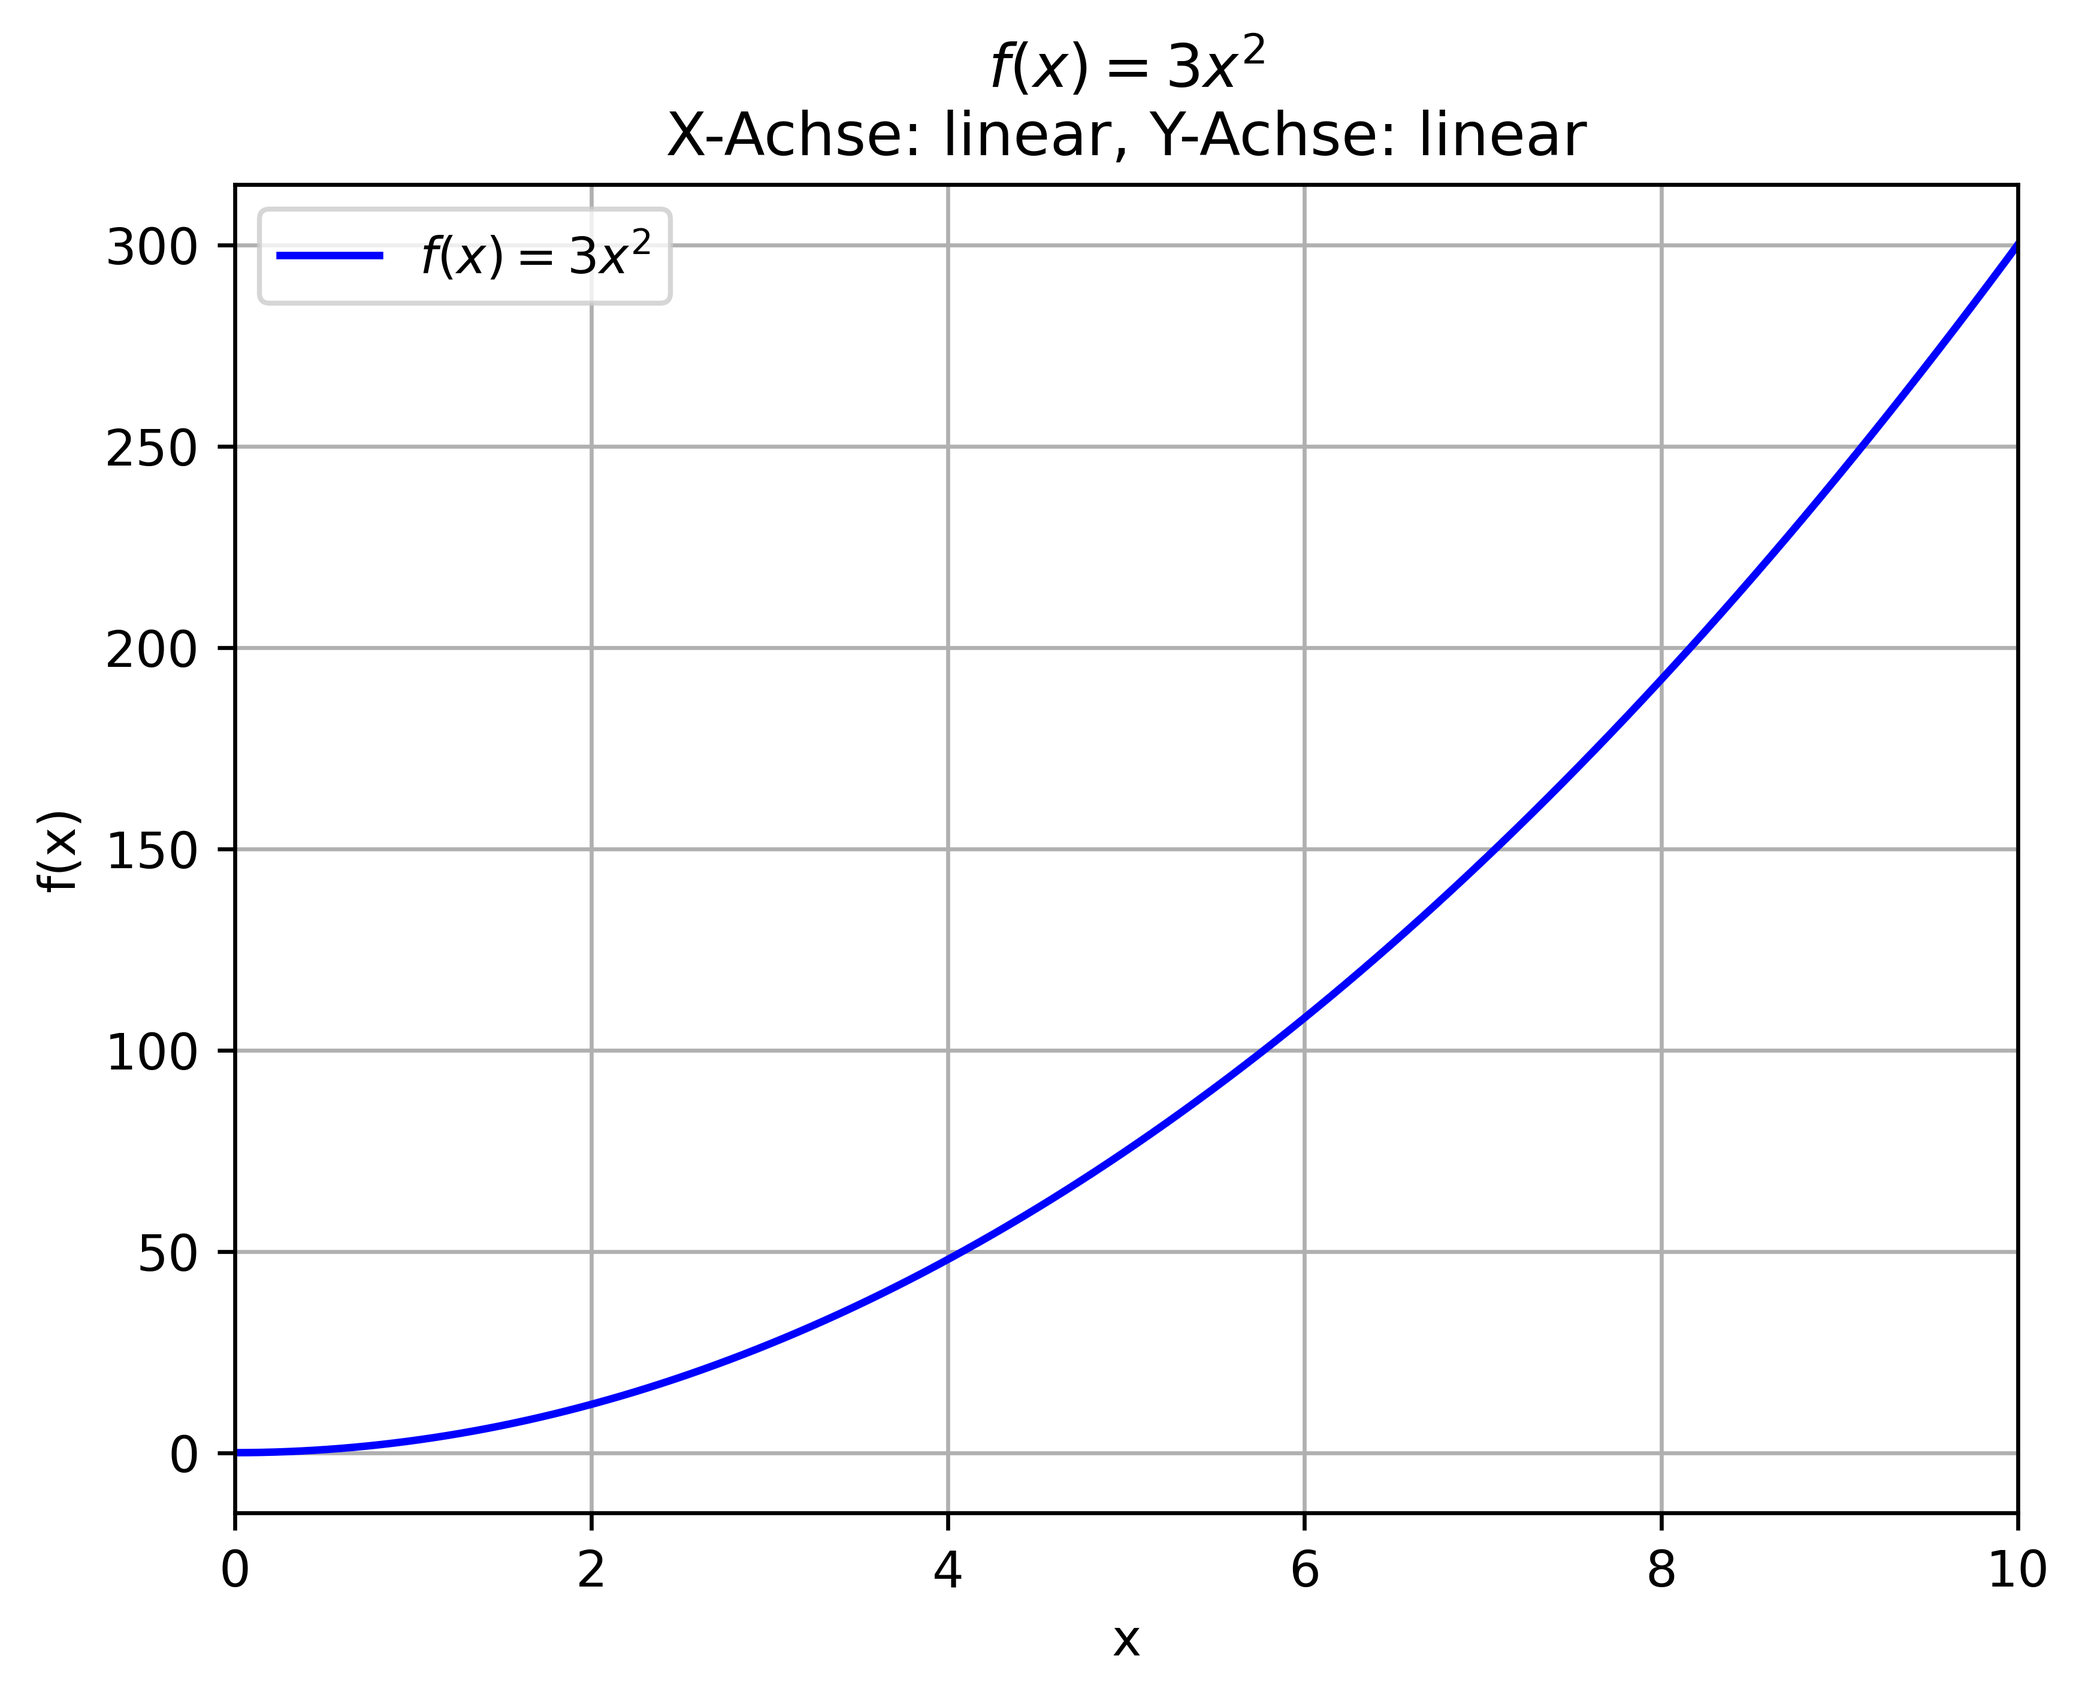
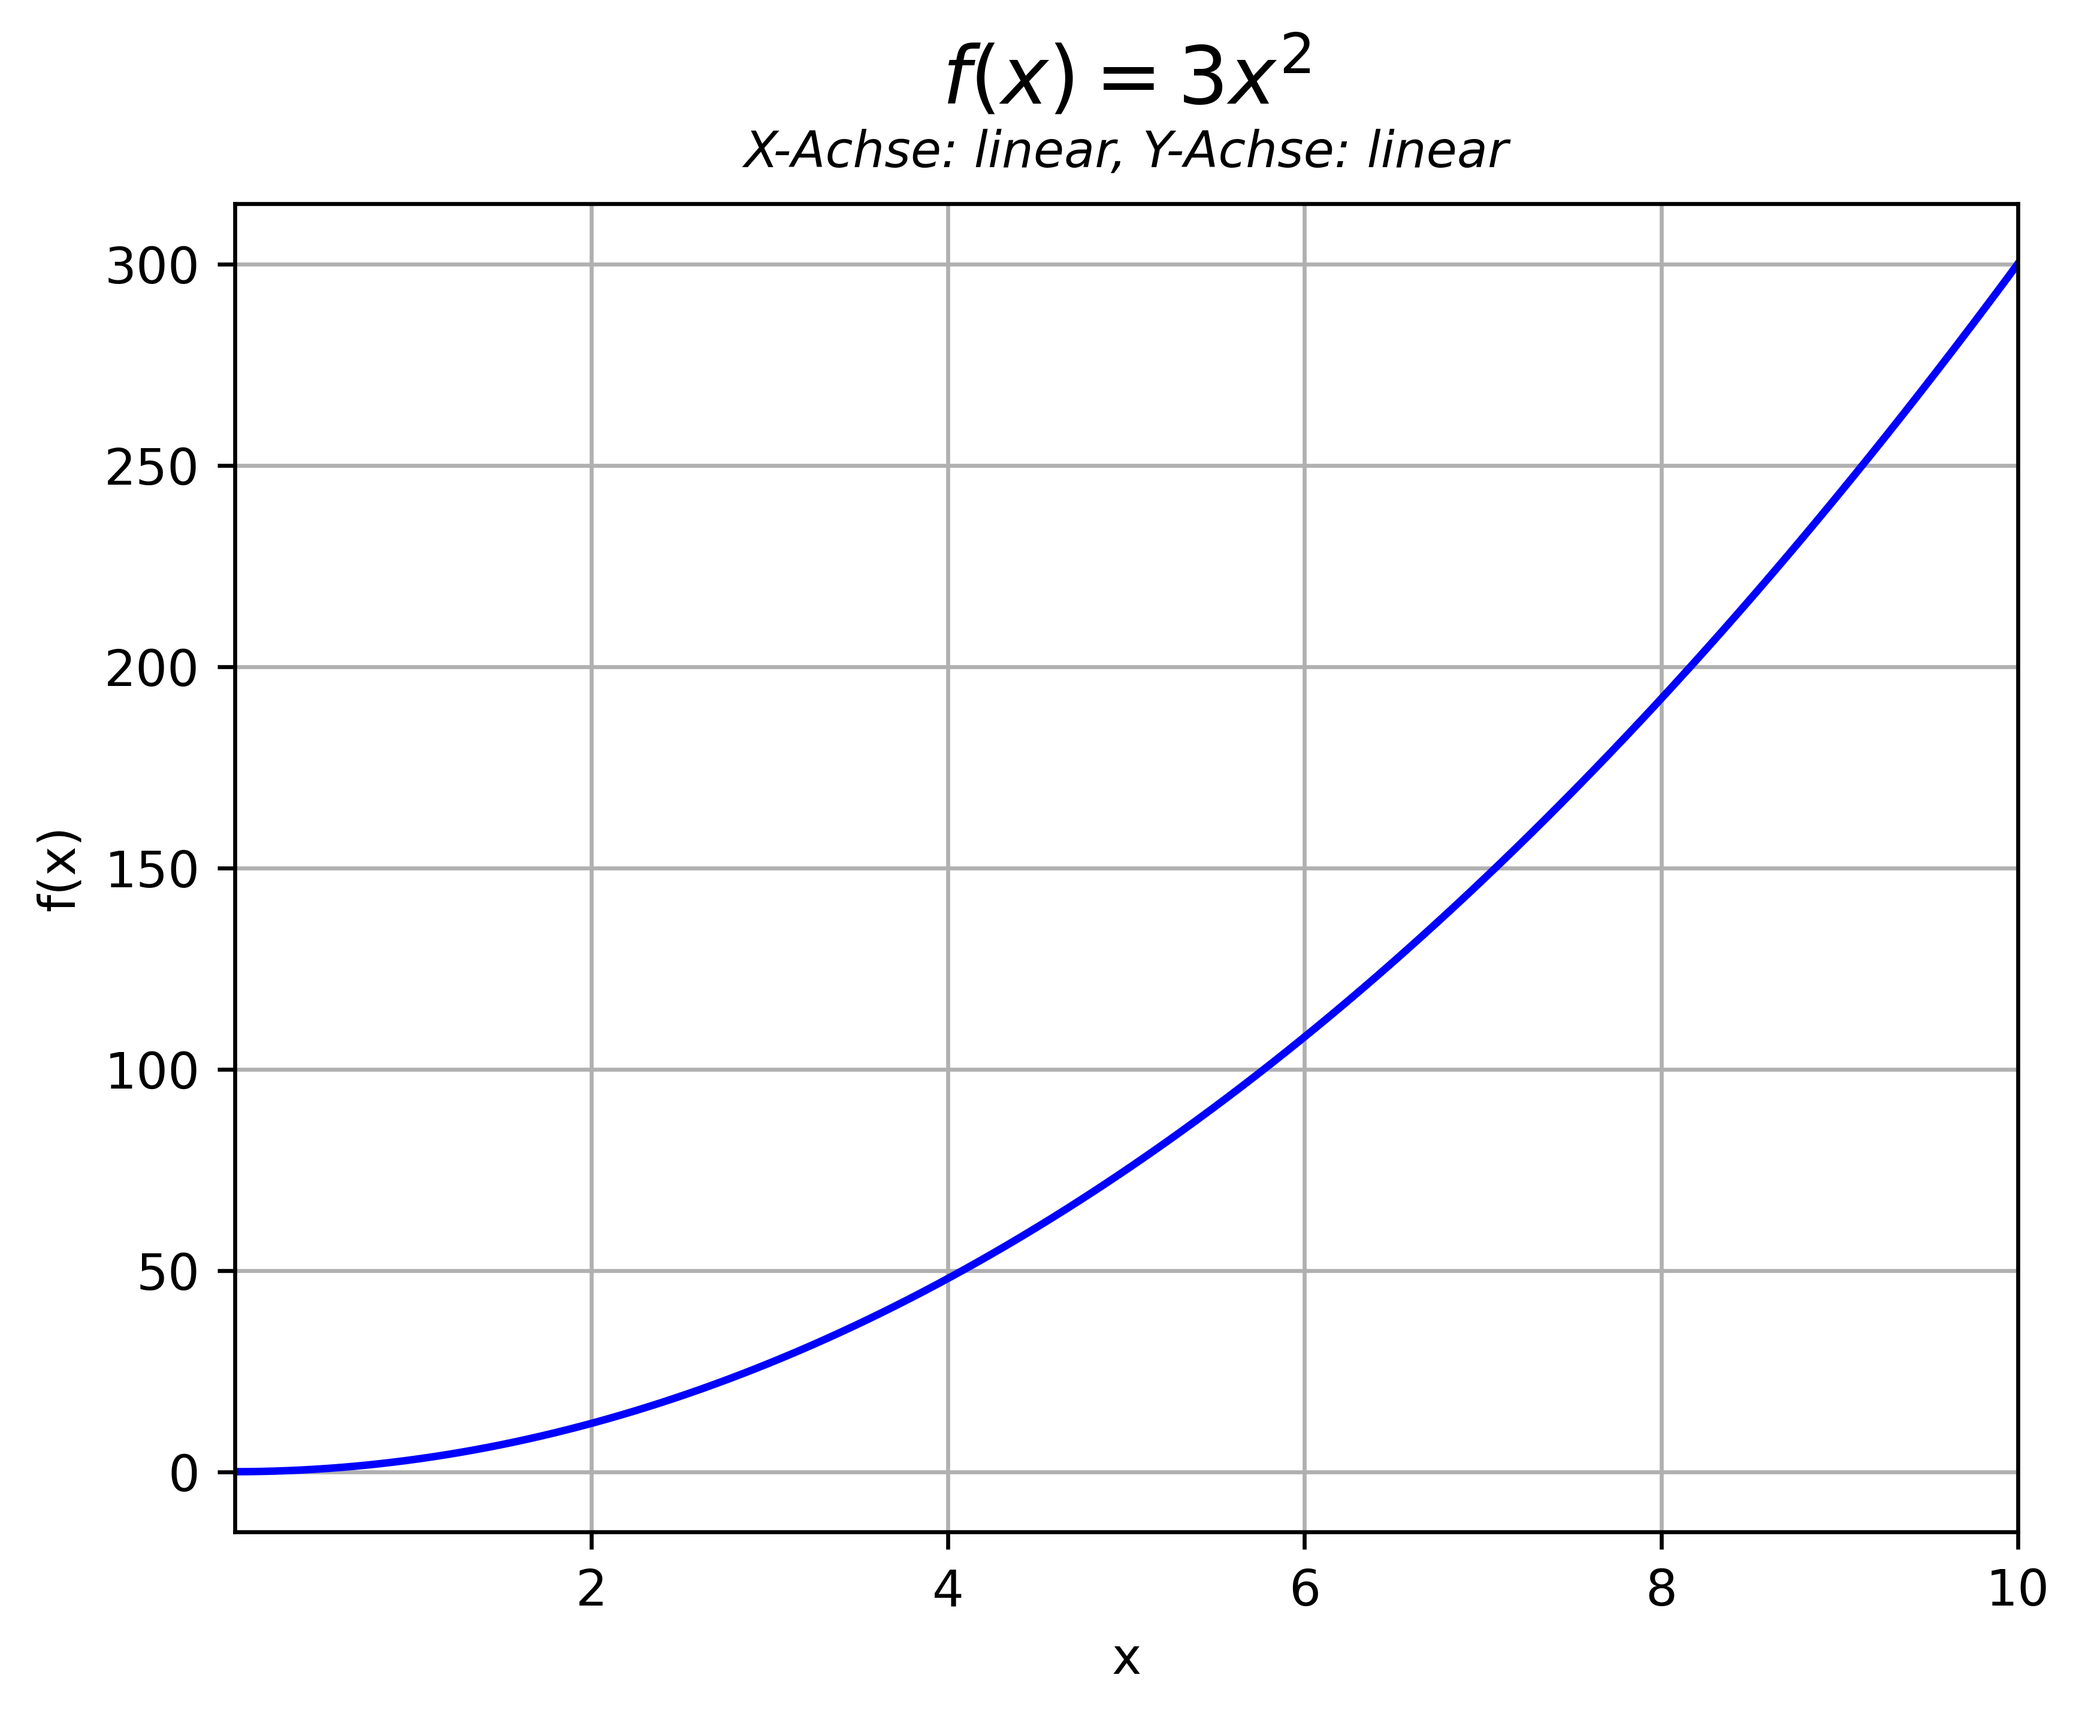
Aufgabe 2 Struktur geändert

diff --git a/Aufgabe2.py b/Aufgabe2.py
@@ -8,102 +8,82 @@ def f(x):
 
 #Funktion für linear linear
 def Aufgabe2_linear_linear():
-    #Definiert den Wertebereich der Funktion
-    x = np.linspace(0, 10, 30000) 
-    #Aufruf der zuvor definierten Funktion, also unsere Funktion aus der Aufgabenstellung. Abbildung mit der entsprechenden Funktion auf y
+    # Definiert den Wertebereich der Funktion
+    x = np.linspace(1e-9, 10, 30000)
     y = f(x)
-    #Öffnet einen neuen Graphen
-    plt.figure()
-    #Zeichnet den Graphen in Abhängikeit mit den zuvor definierten x und y. Das Label wir anschliessend unten in der Legende angezeigt. Das r ist da, um die Formel in LaTeX-Syntax einzugeben
-    plt.plot(x, y, color="blue",label=r"$f(x) = 3x^2$")
-    #Eingabe des Titels, erneut in LaTex-Syntax
-    plt.title(r"$f(x) = 3x^2$" "\nX-Achse: linear, Y-Achse: linear")
-    #X-Achsenbeschriftung
-    plt.xlabel("x")
-    #Y-Achsenbeschriftung
-    plt.ylabel("f(x)")
-    #Anzeige des XY-Gitters
-    plt.grid(True)
-    #Zeigt die in den "label" definierten Texte in der Legende an
-    plt.legend()
-    #Zeigt nur den ausgewählten Bereich an
-    plt.xlim(0, 10)
-    #Bild für den Bericht speichern
-    plt.savefig(r"Bilder\aufgabe2_linear_linear.png", dpi=600, bbox_inches="tight")
+    # Figure + Achse
+    fig, ax = plt.subplots()
+    # Graph zeichnen
+    ax.plot(x, y, color="blue", label=r"$f(x) = 3x^2$")
+    # 1. Zeile: Formel, größere Schrift
+    ax.set_title(r"$f(x) = 3x^2$", fontsize=16, pad=20)
+    # 2. Zeile: kleinere Schrift, direkt unter der ersten
+    ax.text(
+        0.5, 1.02,
+        "X-Achse: linear, Y-Achse: linear",
+        transform=ax.transAxes,
+        ha="center",
+        va="bottom",
+        fontsize=10,
+        style="italic"
+    )
+    # Achsenbeschriftungen
+    ax.set_xlabel("x")
+    ax.set_ylabel("f(x)")
+    # Gitterlinien für Plot
+    ax.grid(True, which="major")
+    ax.grid(True, which="minor",linewidth=0.5)
+    # Bereich einschränken (untere Grenze > 0 wegen log-Skala!)
+    ax.set_xlim(1e-9, 10)
+    fig.savefig(r"Bilder\aufgabe2_linear_linear.png", dpi=600, bbox_inches="tight")
 
 #Funktion für logarithmisch linear
 def Aufgabe2_log_linear():
-    #Definiert den Wertebereich der Funktion
-    x = np.linspace(0.000001, 10, 30000) 
-    #Aufruf der zuvor definierten Funktion, also unsere Funktion aus der Aufgabenstellung. Abbildung mit der entsprechenden Funktion auf y
-    y = f(x)
-    #Öffnet einen neuen Graphen
-    plt.figure()
-    #Zeichnet den Graphen in Abhängikeit mit den zuvor definierten x und y. Das Label wir anschliessend unten in der Legende angezeigt. Das r ist da, um die Formel in LaTeX-Syntax einzugeben
-    plt.plot(x, y, color="blue",label=r"$f(x) = 3x^2$")
-    #Einstellen der logarithmischen Skala
-    plt.xscale("log")
-    #Eingabe des Titels, erneut in LaTex-Syntax
-    plt.title(r"$f(x) = 3x^2$" "\nX-Achse: logarithmisch, Y-Achse: linear")
-    #X-Achsenbeschriftung
-    plt.xlabel("x")
-    #Y-Achsenbeschriftung
-    plt.ylabel("f(x)")
-    #Anzeige des XY-Gitters
-    plt.grid(True)
-    #Zeigt die in den "label" definierten Texte in der Legende an
-    plt.legend()
-    #Zeigt nur den ausgewählten Bereich an
-    plt.xlim(0, 10)
-    #Bild für den Bericht speichern
-    plt.savefig(r"Bilder\aufgabe2_log_linear.png", dpi=600, bbox_inches="tight")
-
-#Funktion für logarithmisch logarithmisch
-def Aufgabe2_log_log():
-    #Definiert den Wertebereich der Funktion
-    x = np.linspace(0.000001, 10, 30000) 
-    #Aufruf der zuvor definierten Funktion, also unsere Funktion aus der Aufgabenstellung. Abbildung mit der entsprechenden Funktion auf y
-    y = f(x)
-    #Öffnet einen neuen Graphen
-    plt.figure()
-    #Zeichnet den Graphen in Abhängikeit mit den zuvor definierten x und y. Das Label wir anschliessend unten in der Legende angezeigt. Das r ist da, um die Formel in LaTeX-Syntax einzugeben
-    plt.plot(x, y, color="blue",label=r"$f(x) = 3x^2$")
-    #Einstellen der logarithmischen Skala
-    plt.xscale("log")
-    plt.yscale("log")
-    #Eingabe des Titels, erneut in LaTex-Syntax
-    plt.title(r"$f(x) = 3x^2$" "\nX-Achse: logarithmisch, Y-Achse: logarithmisch")
-    #X-Achsenbeschriftung
-    plt.xlabel("x")
-    #Y-Achsenbeschriftung
-    plt.ylabel("f(x)")
-    #Anzeige des XY-Gitters
-    plt.grid(True)
-    #Zeigt die in den "label" definierten Texte in der Legende an
-    plt.legend()
-    #Zeigt nur den ausgewählten Bereich an
-    plt.xlim(0, 10)
-    #Bild für den Bericht speichern
-    plt.savefig(r"Bilder\aufgabe2_logarithmisch_logarithmisch.png", dpi=600, bbox_inches="tight")
-
-def Aufgabe2_log_log2():
     # Definiert den Wertebereich der Funktion
-    x = np.linspace(0.000001, 10, 30000)
+    x = np.linspace(1e-9, 10, 30000)
     y = f(x)
-
     # Figure + Achse
     fig, ax = plt.subplots()
-
     # Graph zeichnen
     ax.plot(x, y, color="blue", label=r"$f(x) = 3x^2$")
+    # Logarithmische Skala
+    ax.set_xscale("log")
+    ax.set_yscale("linear")
+    # 1. Zeile: Formel, größere Schrift
+    ax.set_title(r"$f(x) = 3x^2$", fontsize=16, pad=20)
+    # 2. Zeile: kleinere Schrift, direkt unter der ersten
+    ax.text(
+        0.5, 1.02,
+        "X-Achse: logarithmisch, Y-Achse: linear",
+        transform=ax.transAxes,
+        ha="center",
+        va="bottom",
+        fontsize=10,
+        style="italic"
+    )
+    # Achsenbeschriftungen
+    ax.set_xlabel("x")
+    ax.set_ylabel("f(x)")
+    # Gitterlinien für Plot
+    ax.grid(True, which="major")
+    ax.grid(True, which="minor",linewidth=0.5)
+    # Bereich einschränken (untere Grenze > 0 wegen log-Skala!)
+    ax.set_xlim(1e-9, 10)
+    fig.savefig(r"Bilder\aufgabe2_logarithmisch_linear.png", dpi=600, bbox_inches="tight")
 
+def Aufgabe2_log_log():
+    # Definiert den Wertebereich der Funktion
+    x = np.linspace(1e-9, 10, 30000)
+    y = f(x)
+    # Figure + Achse
+    fig, ax = plt.subplots()
+    # Graph zeichnen
+    ax.plot(x, y, color="blue", label=r"$f(x) = 3x^2$")
     # Logarithmische Skalen
     ax.set_xscale("log")
     ax.set_yscale("log")
-
     # 1. Zeile: Formel, größere Schrift
     ax.set_title(r"$f(x) = 3x^2$", fontsize=16, pad=20)
-
     # 2. Zeile: kleinere Schrift, direkt unter der ersten
     ax.text(
         0.5, 1.02,
@@ -111,24 +91,22 @@ def Aufgabe2_log_log2():
         transform=ax.transAxes,
         ha="center",
         va="bottom",
-        fontsize=10
+        fontsize=10,
+        style="italic"
     )
-
     # Achsenbeschriftungen
     ax.set_xlabel("x")
     ax.set_ylabel("f(x)")
-
-    # Gitter (für log-Skala besser mit which="both")
-    ax.grid(True, which="both")
-
+    # Gitterlinien für Plot
+    ax.grid(True, which="major")
+    ax.grid(True, which="minor",linewidth=0.5)
     # Bereich einschränken (untere Grenze > 0 wegen log-Skala!)
-    ax.set_xlim(0.000001, 10)
-
+    ax.set_xlim(1e-9, 10)
+    fig.savefig(r"Bilder\aufgabe2_logarithmisch_logarithmisch.png", dpi=600, bbox_inches="tight")
     
 #Aufruf der Funktion
 if __name__ == "__main__":
     Aufgabe2_linear_linear()
     Aufgabe2_log_linear()
     Aufgabe2_log_log()
-    Aufgabe2_log_log2()
     plt.show()
